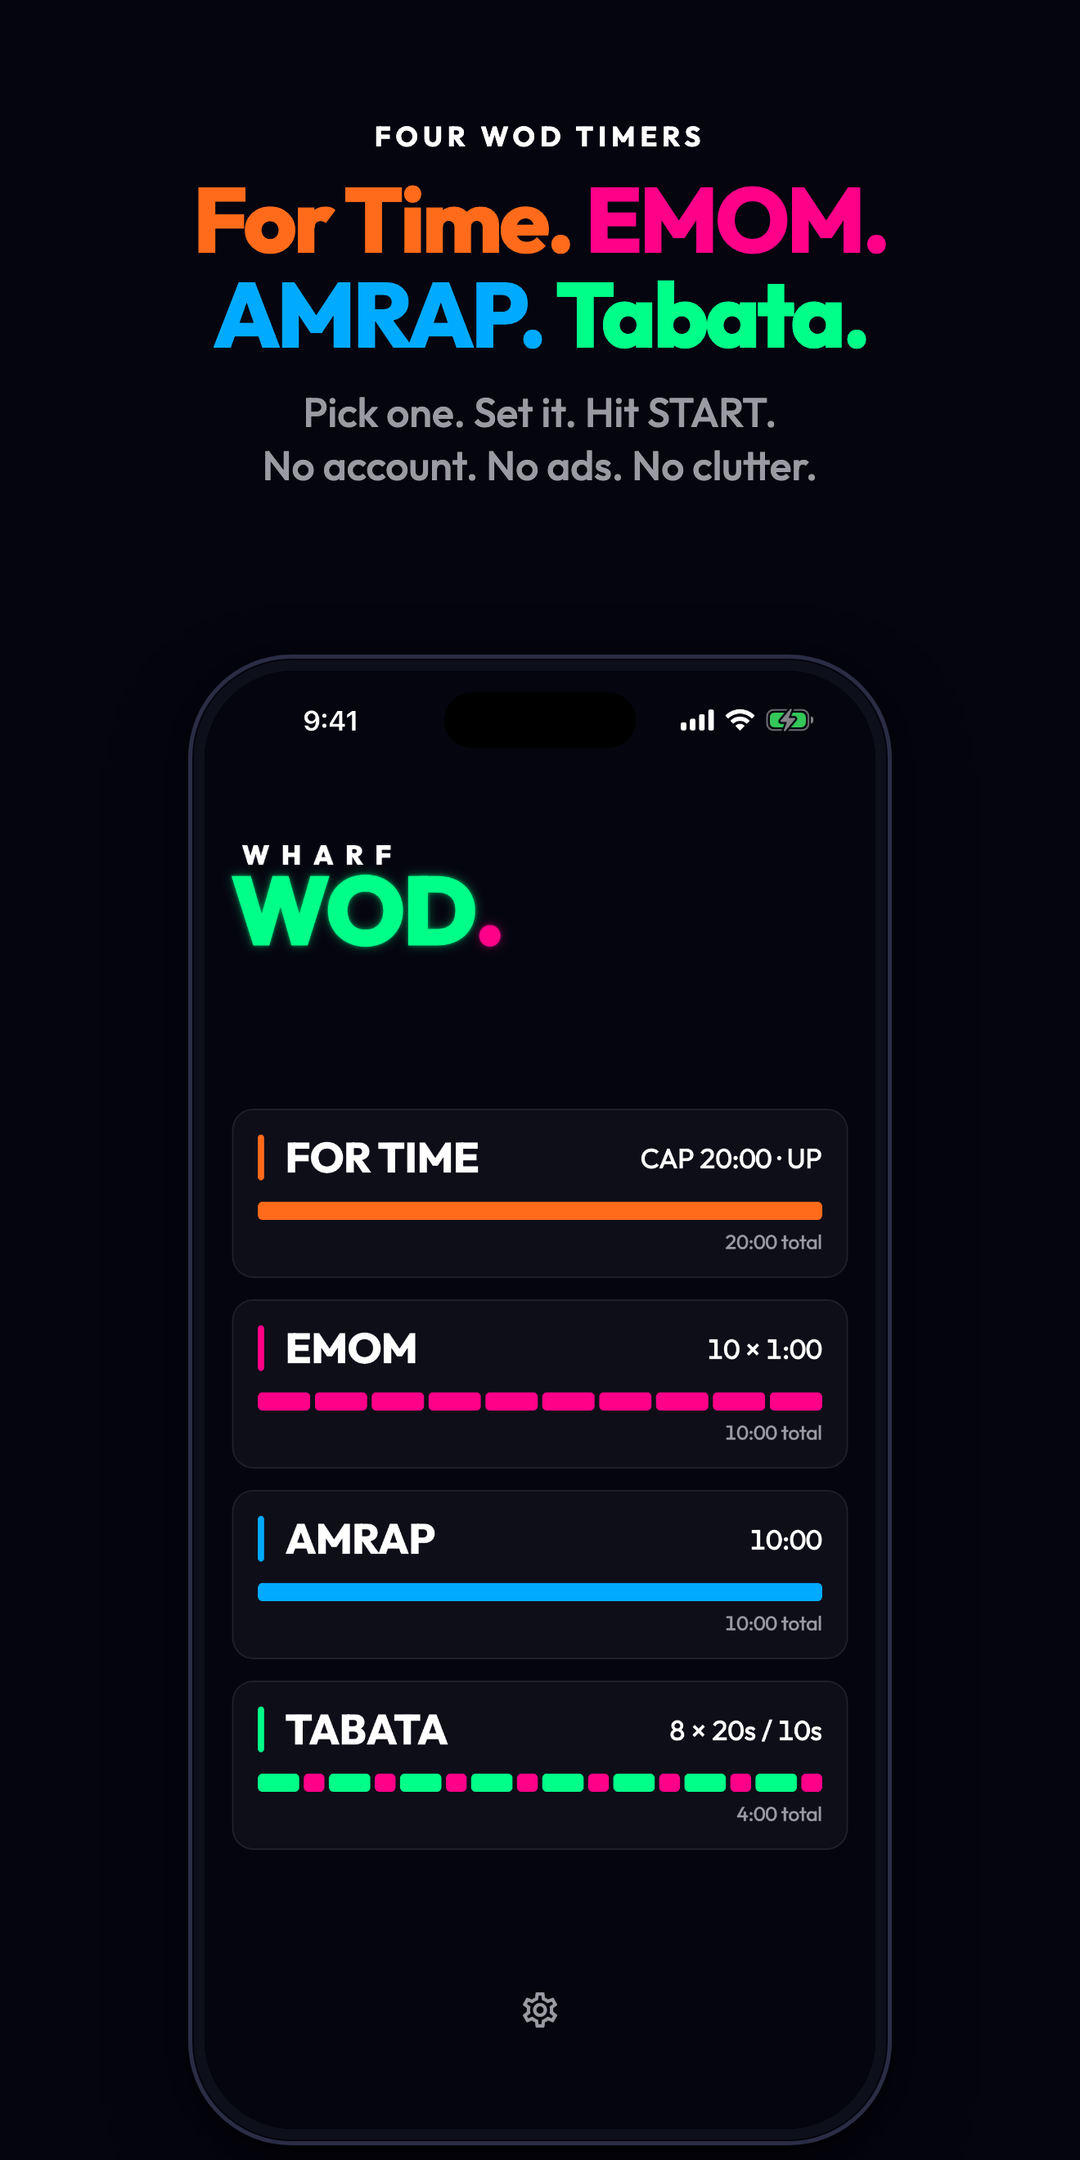
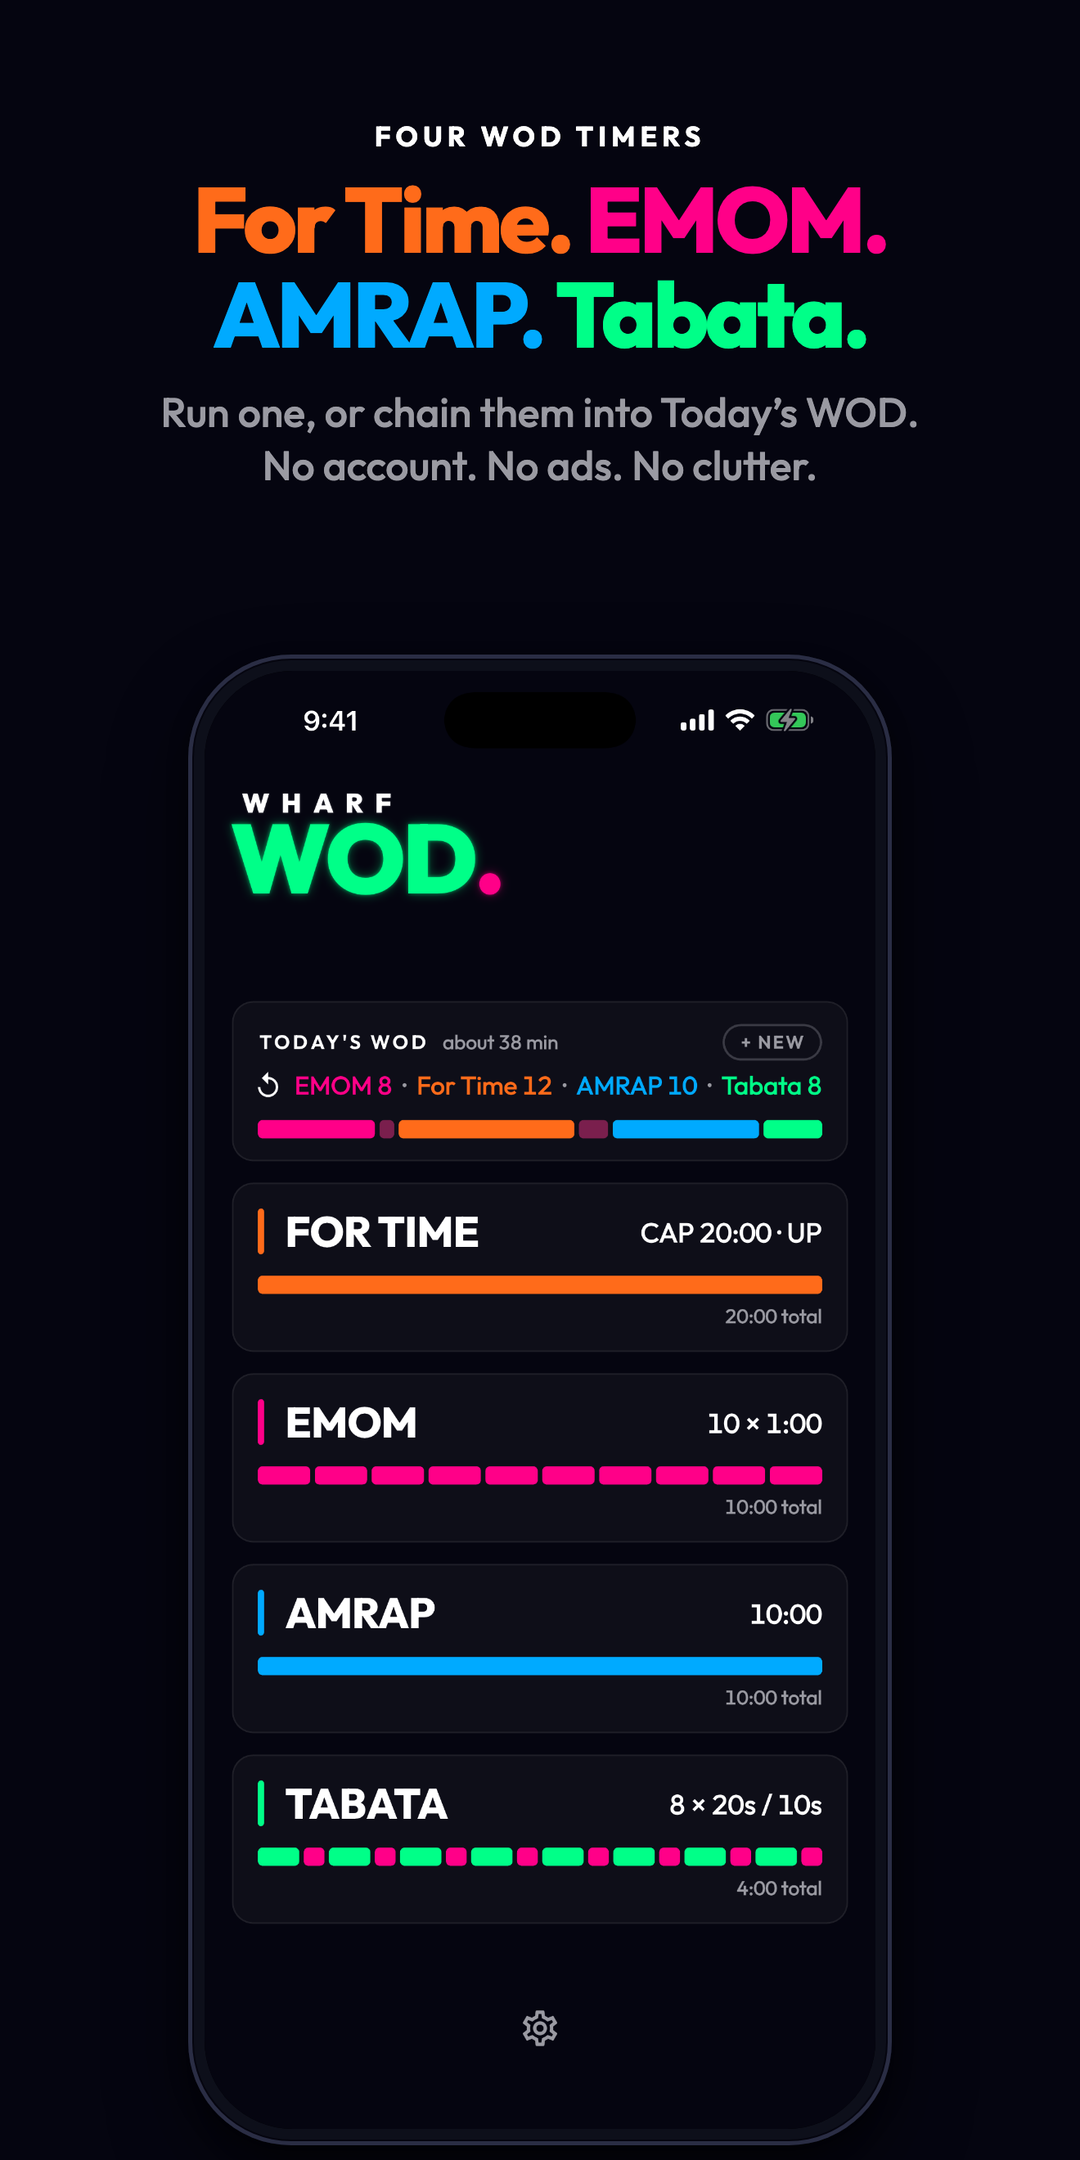
Store frame 1: Home with a mixed Today's WOD card (App Store, Play, iPad)
Frame 01 of both phone sets is now Home on 2.6.1 with a Today's WOD card chaining
all four timers, under the four-colour headline; the proof names Today's WOD. The
iPad set gets the same Home as its first image (fastlane/screenshots-ipad/en-US,
uploaded by ios_release_with_screenshots.sh). New capture tool:
integration_test/store_home_test.dart + tool/capture_store_home.sh.

Changed region(s): [[0.2139, 0.3722, 0.7639, 0.8995], [0.1528, 0.1861, 0.8556, 0.2171], [0.4889, 0.8995, 0.5194, 0.9616]]

diff --git a/integration_test/store_home_test.dart b/integration_test/store_home_test.dart
@@ -1,0 +1,53 @@
+// Store set frame 1 (23 Nov 2026): Home as a returning athlete sees it, the
+// four timers under a Today's WOD card that mixes them. One still, held for
+// a host-side grab:
+//
+//   UDID=<iphone> OUT=<dir> tool/capture_store_home.sh
+//
+// --dart-define=STORE_SESSION=all4 (default) chains all four timers with
+// rests between; =classic is the 2.6.0 mock session (Sets, Rest, EMOM, Rest,
+// AMRAP).
+//
+// ignore_for_file: avoid_print
+
+import 'package:flutter_test/flutter_test.dart';
+import 'package:integration_test/integration_test.dart';
+import 'package:wod_timer/features/session/application/session_store.dart';
+import 'package:wod_timer/features/session/domain/session_block.dart';
+
+import 'todays_wod_support.dart';
+
+const _which = String.fromEnvironment('STORE_SESSION', defaultValue: 'all4');
+
+final _sessions = {
+  'all4': WodSession(const [
+    EmomBlock(intervalSeconds: 60, rounds: 8),
+    RestBlock(seconds: 60),
+    ForTimeBlock(capSeconds: 720, countUp: true),
+    RestBlock(seconds: 120),
+    AmrapBlock(durationSeconds: 600),
+    TabataBlock(workSeconds: 20, restSeconds: 10, rounds: 8),
+  ]),
+  'classic': WodSession(const [
+    SetsBlock(sets: 5, restSeconds: 120),
+    RestBlock(seconds: 180),
+    EmomBlock(intervalSeconds: 60, rounds: 10),
+    RestBlock(seconds: 120),
+    AmrapBlock(durationSeconds: 720),
+  ]),
+};
+
+void main() {
+  IntegrationTestWidgetsFlutterBinding.ensureInitialized();
+
+  testWidgets("store frame 1: home with a mixed Today's WOD", (tester) async {
+    await launchApp(
+      tester,
+      prefs: {
+        SessionStore.lastSessionKey: SessionCodec.encode(_sessions[_which]!),
+      },
+    );
+    await pumpSeconds(tester, 1);
+    await capture(tester, 'store-home-$_which');
+  });
+}

diff --git a/design/store-captions-2026-10/README.md b/design/store-captions-2026-10/README.md
@@ -73,3 +73,17 @@ Outputs are 8-bit sRGB with no alpha, checked with `magick identify`.
   finished). They replaced the 2.2-era set, which showed the capsules cut by the round edge (Google's Wear
   review, 19 Nov 2026). Upload: `play_screenshots.py batch --item en-US wearScreenshots <dir>`.
 - The Wear OS watch in the Play wrist frame (07) is the new EMOM live capture.
+
+## Frame 01 shows Today's WOD (23 Nov 2026)
+
+- Gareth: the first image should be the new home with the mixed feature. Frame 01 (App Store 6.9in and Play phone)
+  is now Home with a Today's WOD card that chains all four timers (EMOM 8, For Time 12, AMRAP 10, Tabata 8, rests
+  between), under the same four-colour headline; the proof reads "Run one, or chain them into Today's WOD. / No
+  account. No ads. No clutter." `raw/APP_IPHONE_67_01.png` is that capture (2.6.1).
+- Capture: `UDID=<iPhone 17 Pro Max sim> OUT=<dir> tool/capture_store_home.sh` runs
+  `integration_test/store_home_test.dart` (seeds the session, holds Home, grabs it at 9:41).
+  `STORE_SESSION=classic` seeds the 2.6.0 mock session instead.
+- `fastlane/screenshots-ipad/en-US/`: the 13-inch iPad set the release script uploads (APP_IPAD_PRO_3GEN_129). Its
+  `01_home.png` is the same Home on the iPad Pro 13-inch (M5) simulator, with the old capture's status bar and home
+  indicator strips pasted on (the iPad simulator ignores the date override; the other nine are the 3 Oct set,
+  downloaded from the live listing, kept as they were).
